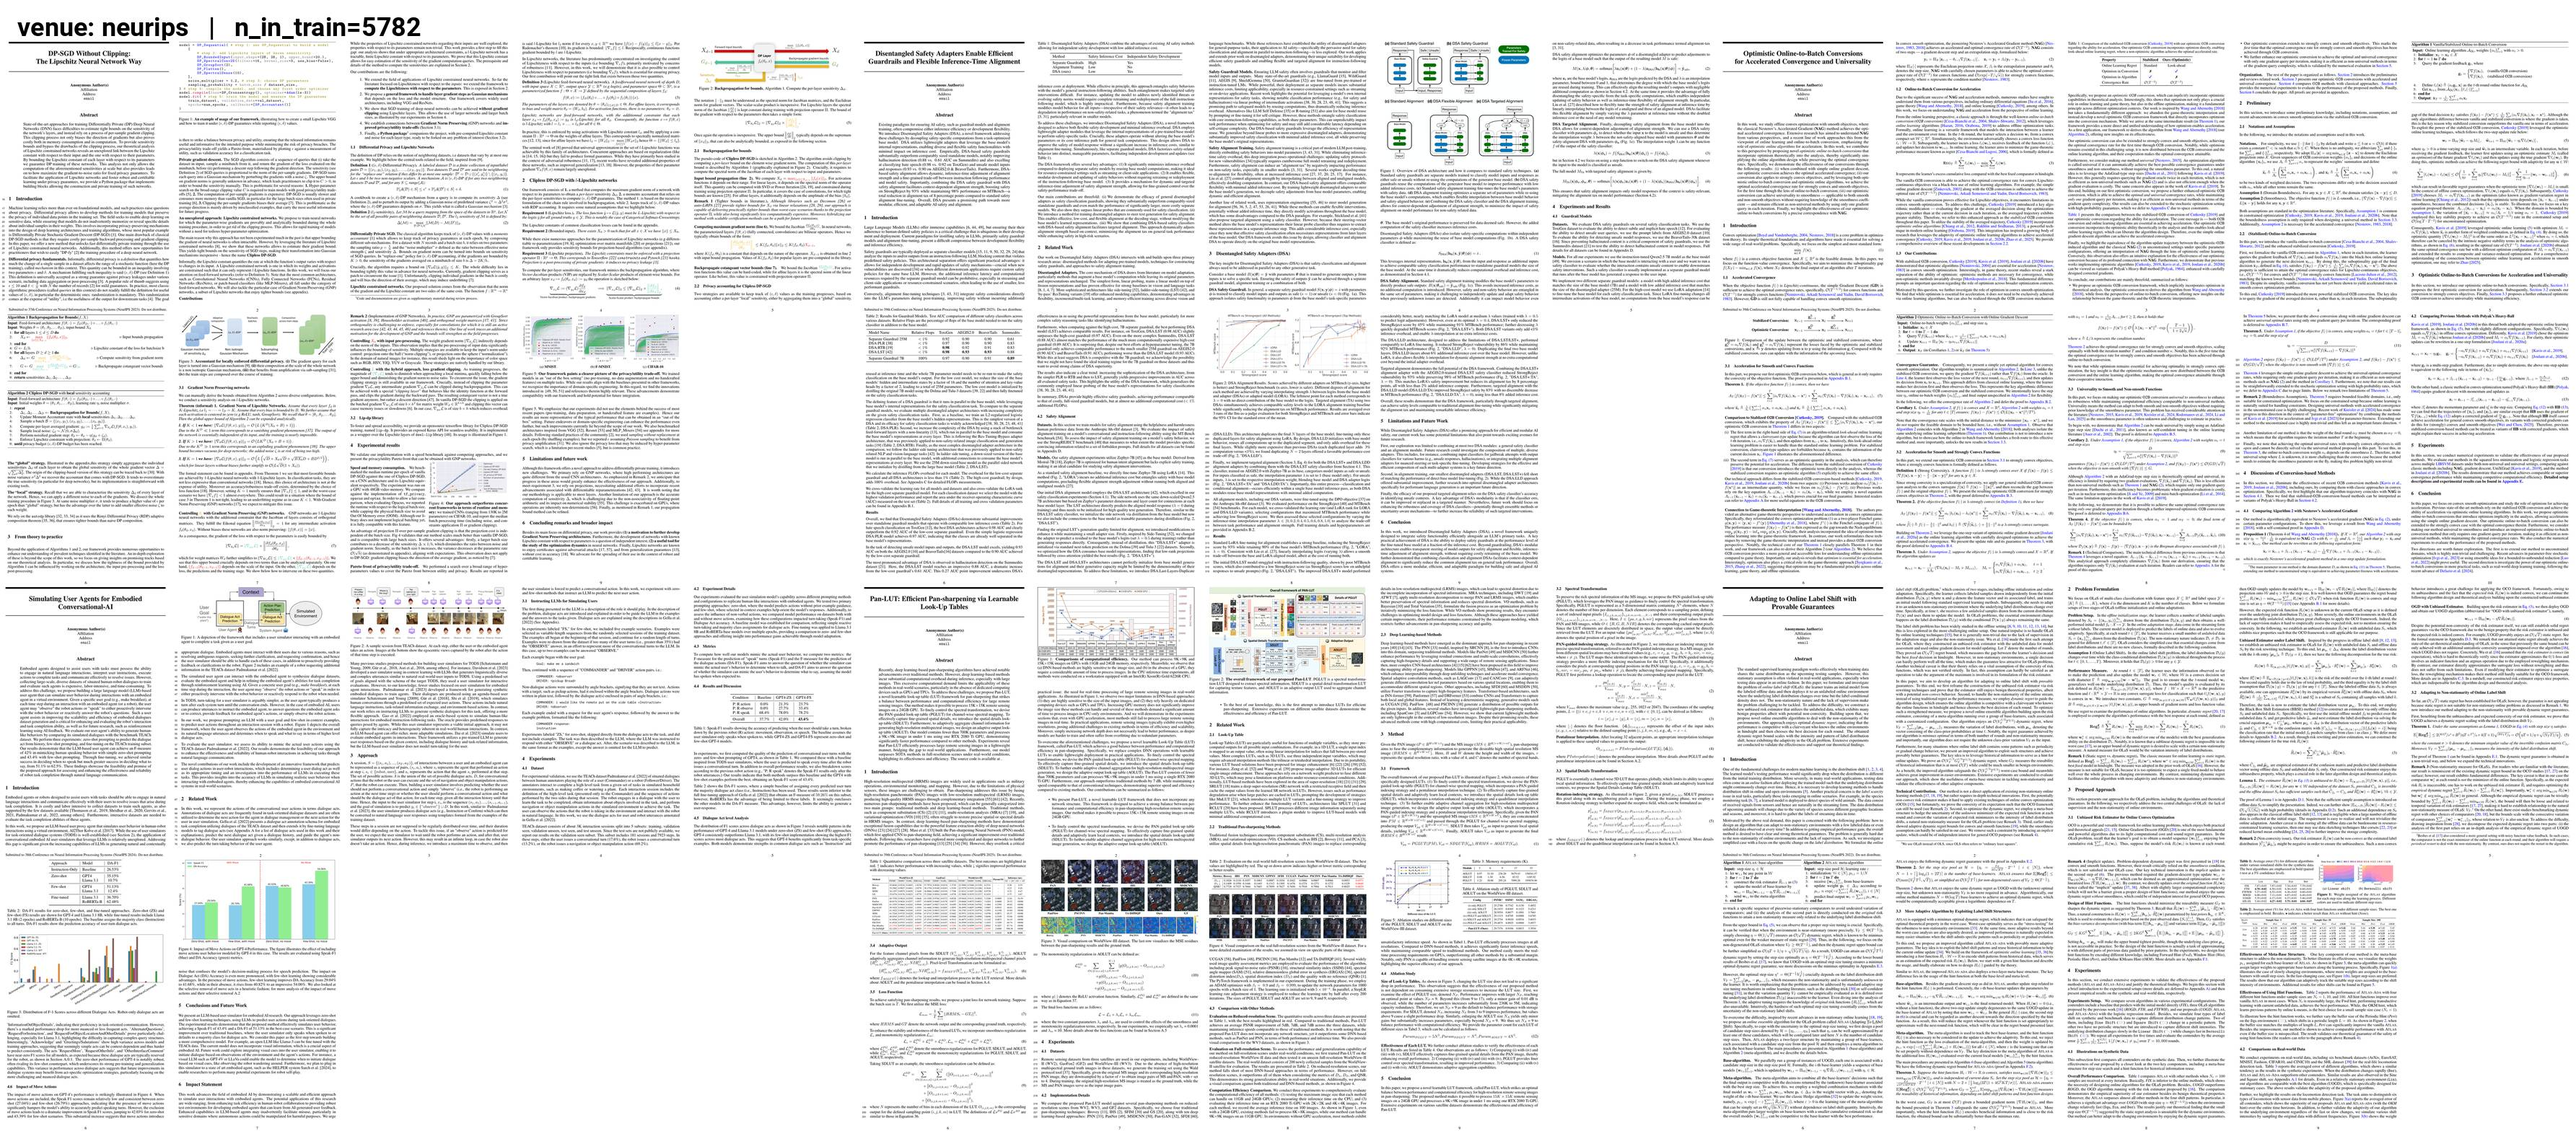
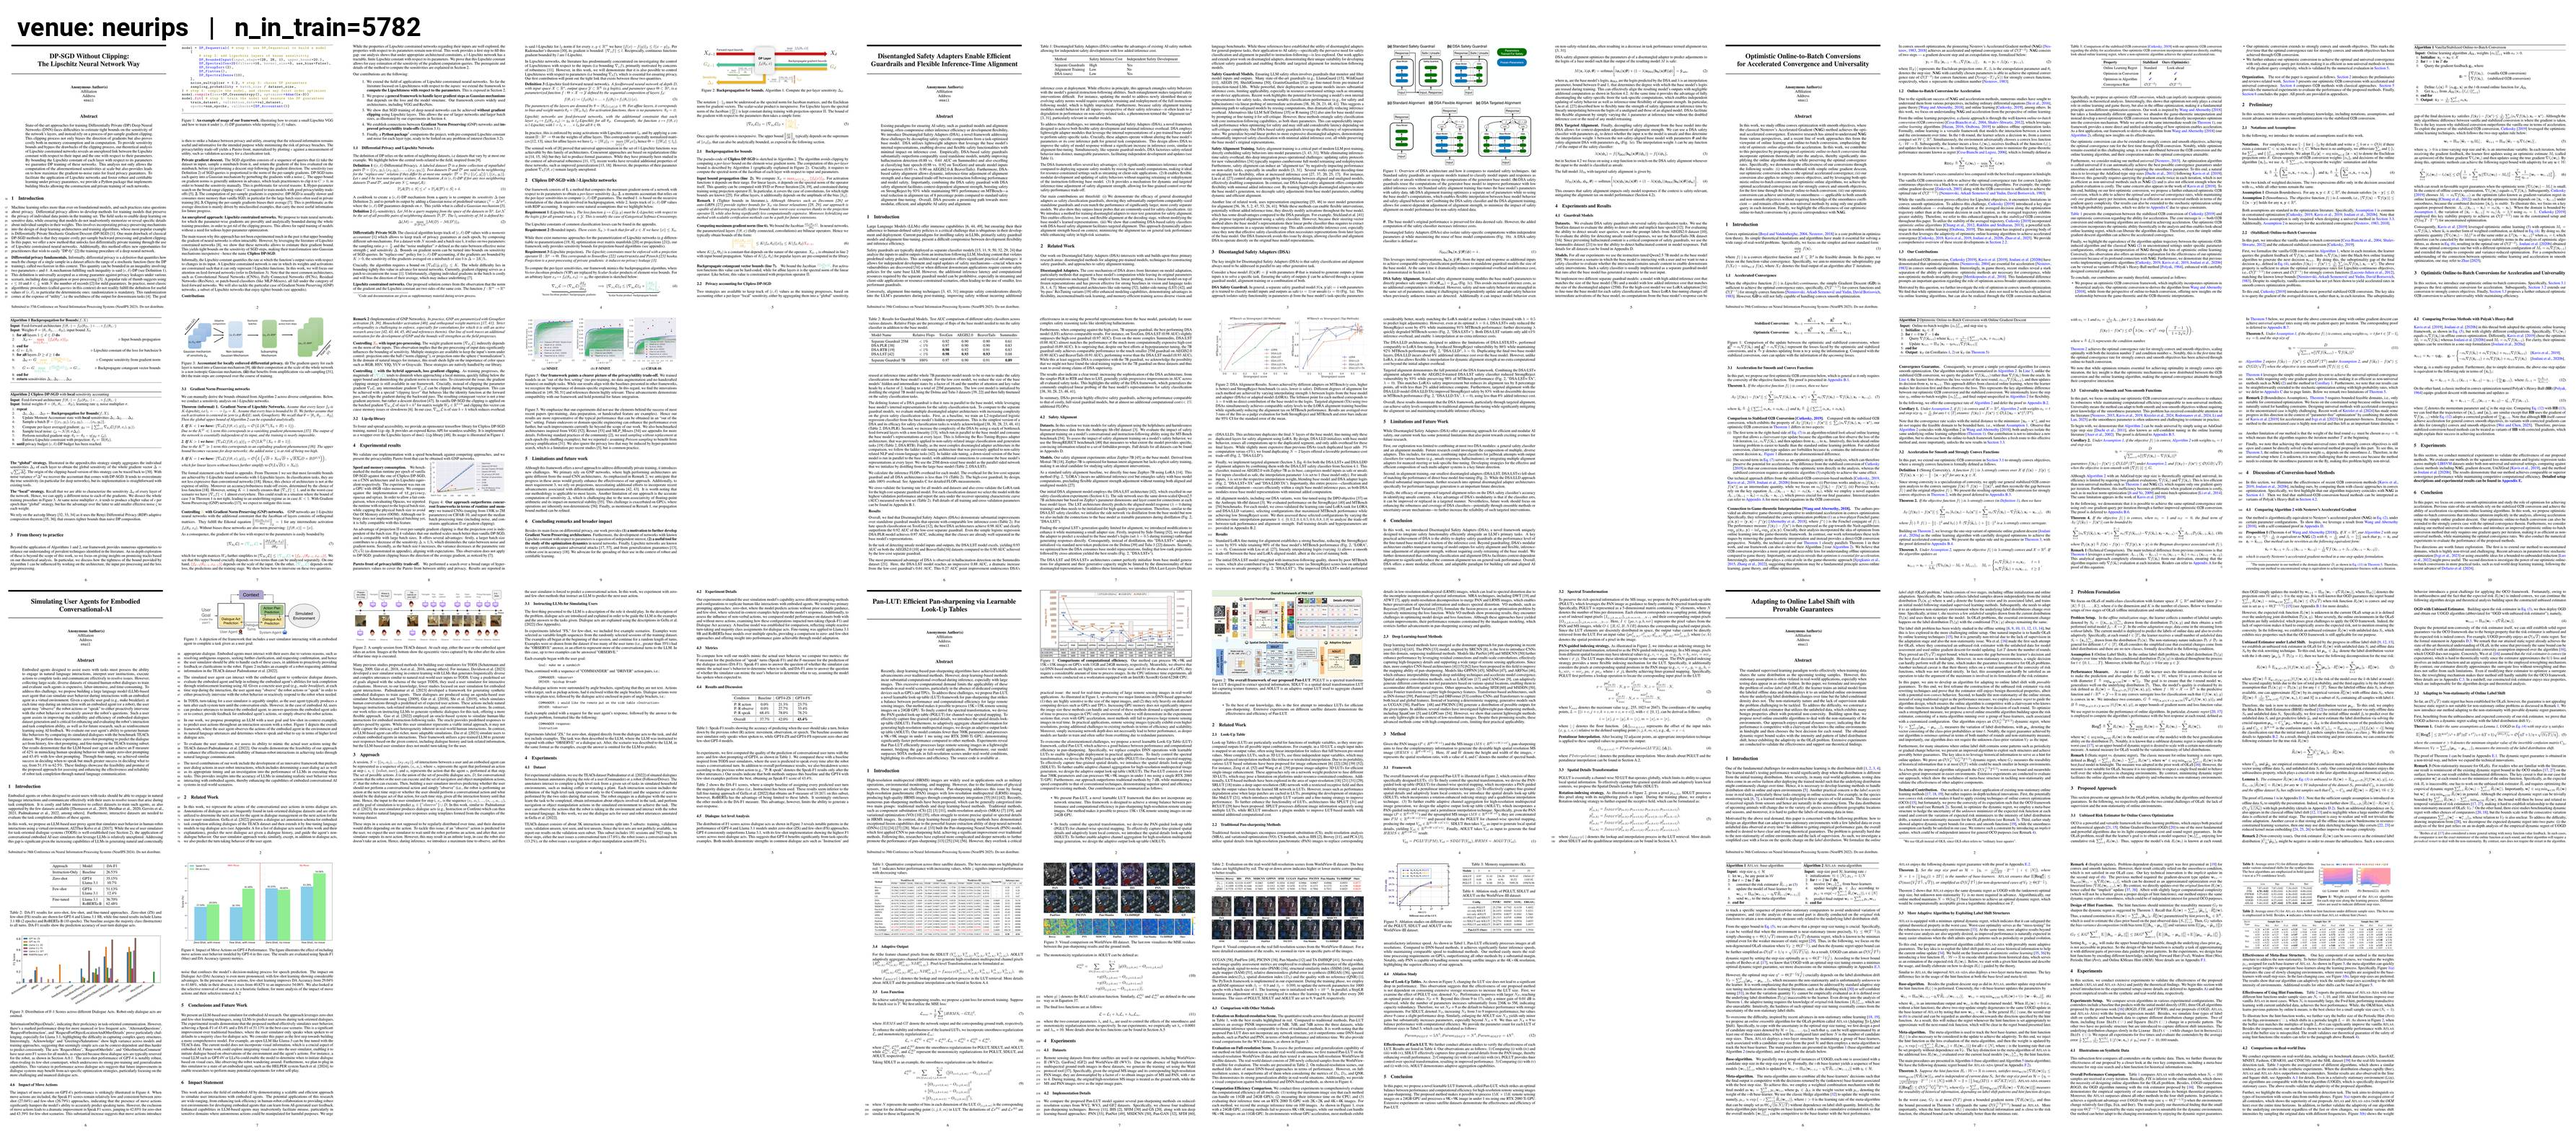
arxiv venue samples: bump borders so wide venues match ICLR margin
ICLR cells letterbox-fit naturally to ~30 px horizontal margin per
page. Wide venues (CVPR/ICCV/AAAI/ICML) had only 14-16 px from the
explicit border, so ICLR still looked airier. Bumped wide venues into
the 22-26 px range so all venues now show ~25 px effective margin per
inner page.

diff --git a/scripts/dump_arxiv_venue_samples.py b/scripts/dump_arxiv_venue_samples.py
@@ -32,20 +32,23 @@ SEED = 17
 # PDF margins so the panel cells already separate visibly; 2-column venues
 # (CVPR/ICCV/ICML/AAAI/AISTATS/EccV) trim to cell edges and need explicit
 # padding here so each page reads as its own card.
+# Sized so the *effective* horizontal margin per page (border + natural
+# letterbox bar from aspect mismatch) is roughly consistent across venues
+# (~28 px each side, matching ICLR's natural ~30 px bar in a 476x756 cell).
 VENUE_PAGE_BORDER = {
-    "iclr": 0,
-    "colm": 0,
-    "neurips": 4,
-    "corl": 6,
-    "aistats": 12,
-    "eccv": 12,
-    "icml": 14,
-    "iccv": 14,
-    "aaai": 14,
-    "cvpr": 16,
-    "acl": 12,  # ACL is 2-column-ish, similar to CVPR
+    "iclr": 0,    # natural ~30 px
+    "colm": 0,    # natural ~30 px
+    "neurips": 12,
+    "corl": 18,
+    "aistats": 22,
+    "eccv": 22,
+    "acl": 22,
+    "icml": 24,
+    "iccv": 24,
+    "aaai": 24,
+    "cvpr": 26,
 }
-DEFAULT_PAGE_BORDER = 12
+DEFAULT_PAGE_BORDER = 22
 
 # Inner page-grid dims (5 cols x 2 rows) so we can paint borders around each cell.
 PANEL_INNER_COLS, PANEL_INNER_ROWS = 5, 2
